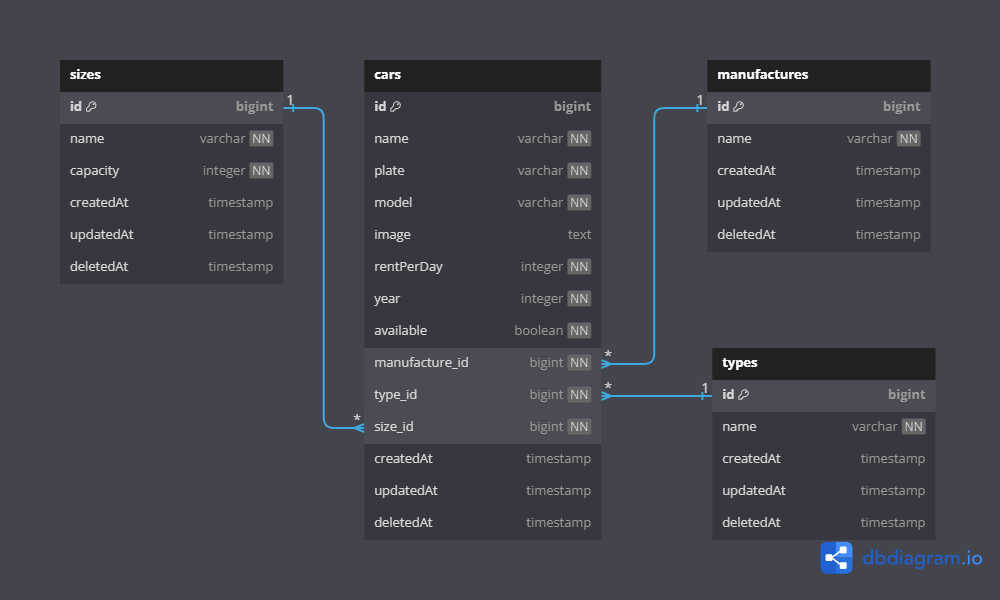
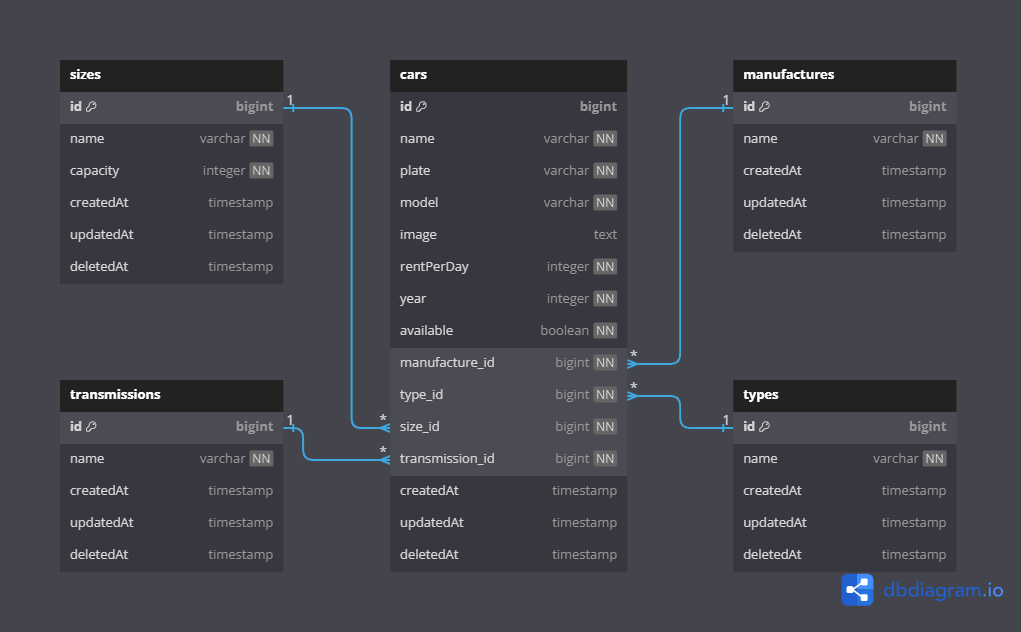
feat: add Transmission model and migration

diff --git a/repository/manufacture/index.js b/repository/manufacture/index.js
@@ -1,0 +1,91 @@
+const { Manufacture } = require("../../models");
+const { getDataRedis, setDataRedis, deleteDataRedis } = require("../../helper/redis");
+
+exports.getManufactures = async () => {
+    const data = await Manufacture.findAll();
+    return data;
+};
+
+// exports.getClass = async (id) => {
+//     const key = `classes:${id}`;
+
+//     // check redis and if there are any data return data from redis
+//     let data = await getDataRedis(key);
+//     if (data) {
+//         return data;
+//     }
+
+//     // if in the redis not found, we will get from database (postgres) and then save it to redis
+//     data = await classes.findAll({
+//         where: {
+//             id,
+//         },
+//         include: {
+//             model: student,
+//         },
+//     });
+
+//     if (data.length > 0) {
+//         // save in the redis if in the postgres is found
+//         await setDataRedis(key, data[0], 300);
+
+//         return data[0];
+//     }
+
+//     throw new Error(`Class with id ${id} is not found!`);
+// };
+
+// exports.createClass = async (payload) => {
+//     // create data to postgres
+//     const data = await classes.create(payload);
+
+//     // create data to redis
+//     const key = `classes:${id}`;
+//     await setDataRedis(key, data, 300);
+
+//     return data;
+// };
+
+// exports.updateClass = async (id, payload) => {
+//     const key = `classes:${id}`;
+
+//     // update data in postgres
+//     await classes.update(payload, {
+//         where: { id },
+//     });
+
+//     // get data from postgres
+//     data = await classes.findAll({
+//         where: {
+//             id,
+//         },
+//         include: {
+//             model: student,
+//         },
+//     });
+
+//     if (data.length > 0) {
+//         // save to redis (cache)
+//         await setDataRedis(key, data[0], 300);
+
+//         return data[0];
+//     }
+
+//     throw new Error(`Class with id ${id} is not found!`);
+// };
+
+// exports.deleteClass = async (id) => {
+//     const key = `classes:${id}`;
+
+//     // delete from postgres
+//     const data = await classes.destroy({
+//         where: { id },
+//     });
+
+//     // delete from redis
+//     await deleteDataRedis(key);
+
+//     if (data) return null;
+
+//     throw new Error(`Class with id ${id} is not found`);
+// };

diff --git a/helper/redis.js b/helper/redis.js
@@ -1,0 +1,35 @@
+const redis = require("../config/redis");
+
+exports.getDataRedis = async (key) => {
+    const redisClient = await redis();
+    try {
+        let dataString = await redisClient.get(key);
+        if (dataString) {
+            data = JSON.parse(dataString); // need to be parsed because data in redis is string, so we will convert from string to js object/array
+            return data;
+        }
+    } finally {
+        await redisClient.disconnect();
+    }
+};
+
+exports.setDataRedis = async (key, value, expiration) => {
+    const redisClient = await redis();
+    try {
+        const payload = JSON.stringify(value);
+        await redisClient.set(key, payload, {
+            EX: expiration,
+        });
+    } finally {
+        await redisClient.disconnect();
+    }
+};
+
+exports.deleteDataRedis = async (key) => {
+    const redisClient = await redis();
+    try {
+        await redisClient.del(key);
+    } finally {
+        await redisClient.disconnect();
+    }
+};

diff --git a/config/sequelize.js b/config/sequelize.js
@@ -1,0 +1,25 @@
+require("dotenv").config(); // enable dotenv
+
+module.exports = {
+    development: {
+        username: process.env.POSTGRES_USERNAME,
+        password: process.env.POSTGRES_PASSWORD,
+        database: process.env.POSTGRES_DATABASE,
+        host: process.env.POSTGRES_HOST,
+        dialect: "postgres",
+    },
+    test: {
+        username: process.env.POSTGRES_USERNAME,
+        password: process.env.POSTGRES_PASSWORD,
+        database: process.env.POSTGRES_DATABASE,
+        host: process.env.POSTGRES_HOST,
+        dialect: "postgres",
+    },
+    production: {
+        username: process.env.POSTGRES_USERNAME,
+        password: process.env.POSTGRES_PASSWORD,
+        database: process.env.POSTGRES_DATABASE,
+        host: process.env.POSTGRES_HOST,
+        dialect: "postgres",
+    },
+};

diff --git a/usecase/manufacture/index.js b/usecase/manufacture/index.js
@@ -1,0 +1,27 @@
+const manufactureRepo = require("../../repository/manufacture");
+
+exports.getManufactures = async () => {
+    const data = await manufactureRepo.getManufactures();
+    return data;
+};
+
+// exports.getClass = async (id) => {
+//     const data = await classRepo.getClass(id);
+//     return data;
+// };
+
+// exports.createClass = async (payload) => {
+//     const data = await classRepo.createClass(payload);
+//     return data;
+// };
+
+// exports.updateClass = async (id, payload) => {
+//     await classRepo.updateClass(id, payload);
+//     const data = classRepo.getClass(id);
+//     return data;
+// };
+
+// exports.deleteClass = async (id) => {
+//     const data = await classRepo.deleteClass(id);
+//     return data;
+// };

diff --git a/models/transmission.js b/models/transmission.js
@@ -1,0 +1,25 @@
+"use strict";
+const { Model } = require("sequelize");
+module.exports = (sequelize, DataTypes) => {
+    class Transmission extends Model {
+        /**
+         * Helper method for defining associations.
+         * This method is not a part of Sequelize lifecycle.
+         * The `models/index` file will call this method automatically.
+         */
+        static associate(models) {
+            // Car
+            Transmission.hasMany(models.Car, { foreignKey: "transmission_id" });
+        }
+    }
+    Transmission.init(
+        {
+            name: DataTypes.STRING,
+        },
+        {
+            sequelize,
+            modelName: "Transmission",
+        }
+    );
+    return Transmission;
+};

diff --git a/migrations/20240329153813-create-transmission.js b/migrations/20240329153813-create-transmission.js
@@ -1,0 +1,28 @@
+'use strict';
+/** @type {import('sequelize-cli').Migration} */
+module.exports = {
+  async up(queryInterface, Sequelize) {
+    await queryInterface.createTable('Transmissions', {
+      id: {
+        allowNull: false,
+        autoIncrement: true,
+        primaryKey: true,
+        type: Sequelize.INTEGER
+      },
+      name: {
+        type: Sequelize.STRING
+      },
+      createdAt: {
+        allowNull: false,
+        type: Sequelize.DATE
+      },
+      updatedAt: {
+        allowNull: false,
+        type: Sequelize.DATE
+      }
+    });
+  },
+  async down(queryInterface, Sequelize) {
+    await queryInterface.dropTable('Transmissions');
+  }
+};

diff --git a/models/car.js b/models/car.js
@@ -16,6 +16,9 @@ module.exports = (sequelize, DataTypes) => {
 
             // Size
             Car.belongsTo(models.Size, { foreignKey: "size_id" });
+
+            // Transmission
+            Car.belongsTo(models.Transmission, { foreignKey: "transmission_id" });
         }
     }
     Car.init(
@@ -30,6 +33,7 @@ module.exports = (sequelize, DataTypes) => {
             manufacture_id: DataTypes.BIGINT,
             type_id: DataTypes.BIGINT,
             size_id: DataTypes.BIGINT,
+            transmission_id: DataTypes.BIGINT,
         },
         {
             sequelize,

diff --git a/migrations/20240329155750-create-car.js b/migrations/20240329155750-create-car.js
@@ -67,6 +67,16 @@ module.exports = {
                     key: "id",
                 },
             },
+            transmission_id: {
+                type: Sequelize.BIGINT,
+                allowNull: false,
+                references: {
+                    model: {
+                        tableName: "Transmissions",
+                    },
+                    key: "id",
+                },
+            },
             createdAt: {
                 allowNull: false,
                 type: Sequelize.DATE,

diff --git a/route/manufacture.js b/route/manufacture.js
@@ -1,0 +1,14 @@
+const express = require("express");
+const router = express.Router();
+
+const manufactureController = require("../controller/manufacture");
+
+router.route("/").get(manufactureController.getManufactures);
+
+// router
+//     .route("/:id")
+//     .get(classController.getClass)
+//     .put(classController.updateClass)
+//     .delete(classController.deleteClass);
+
+module.exports = router;

diff --git a/config/redis.js b/config/redis.js
@@ -1,0 +1,16 @@
+const { createClient } = require("redis");
+
+const client = async () => {
+    const connection = await createClient({
+        // password: process.env.REDIS_PASSWORD,
+        socket: {
+            host: process.env.REDIS_HOST,
+            port: process.env.REDIS_PORT,
+        },
+    });
+
+    await connection.connect();
+    return connection;
+};
+
+module.exports = client;

diff --git a/controller/manufacture.js b/controller/manufacture.js
@@ -1,0 +1,14 @@
+const manufactureUseCase = require("../usecase/manufacture");
+
+exports.getManufactures = async (req, res, next) => {
+    try {
+        const data = await manufactureUseCase.getManufactures();
+
+        res.status(200).json({
+            message: "Successfully retrieved all manufactures",
+            data,
+        });
+    } catch (error) {
+        next(error);
+    }
+};

diff --git a/route/index.js b/route/index.js
@@ -1,0 +1,8 @@
+const express = require("express");
+const router = express.Router();
+
+const manufacture = require("./manufacture");
+
+router.use("/manufacture", manufacture);
+
+module.exports = router;
